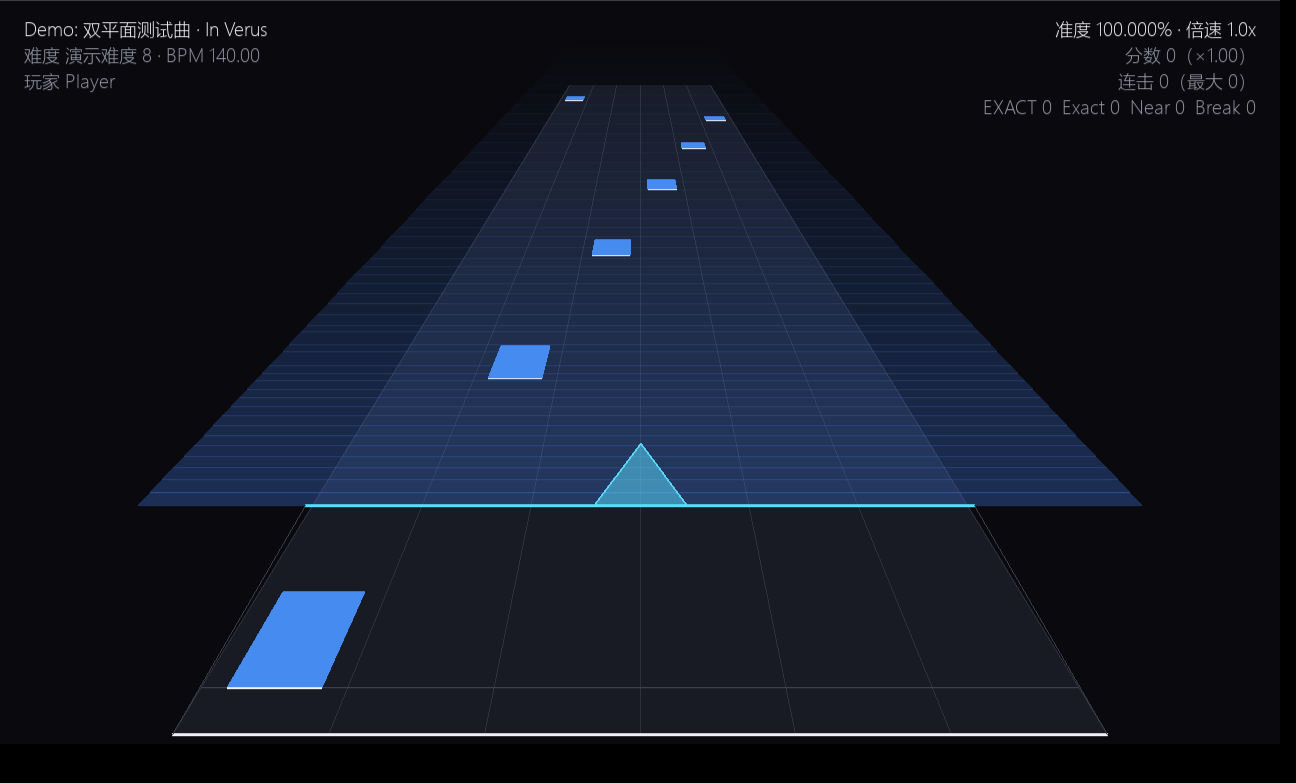
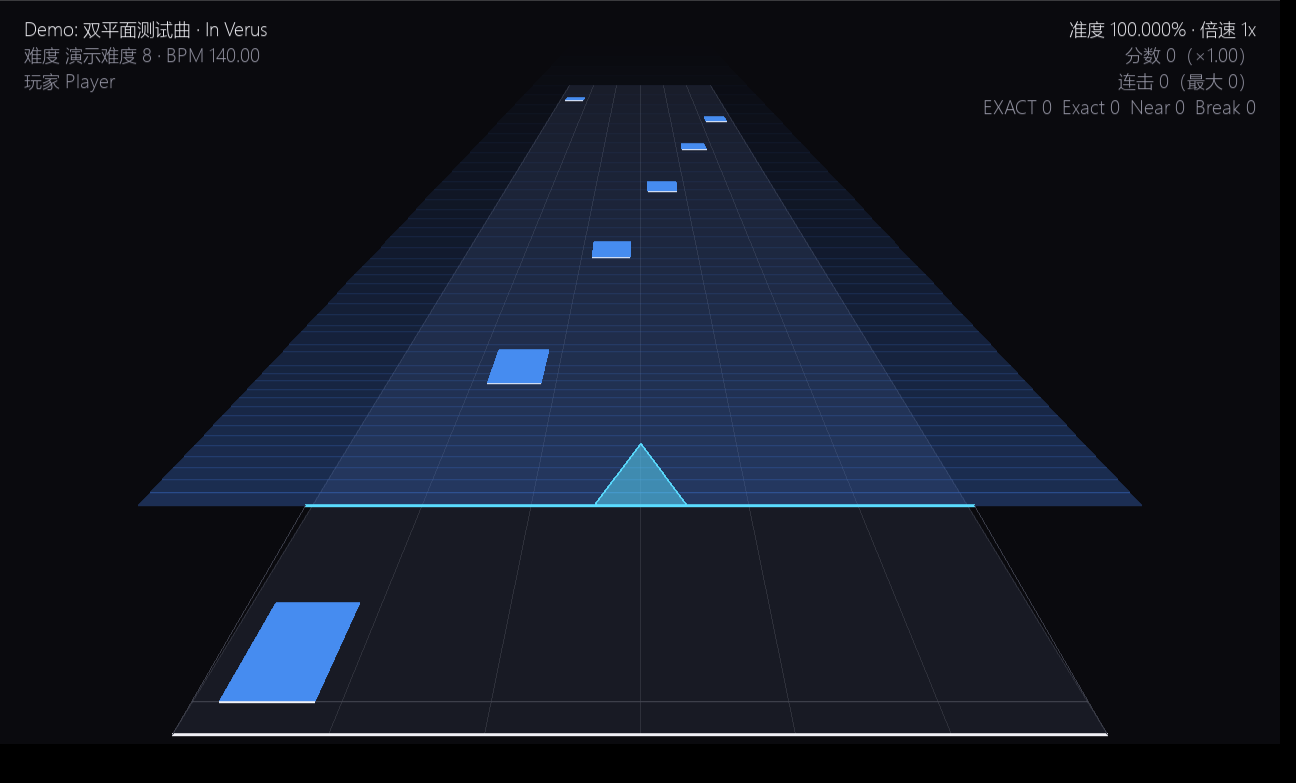
feat(player): 倍速上限改为 1.5x；手输数值不再按档位吸附（只夹范围），步长只管 +/- 按钮；倍速显示不再固定一位小数

diff --git a/tests/test_game_app.py b/tests/test_game_app.py
@@ -308,7 +308,7 @@ class PlayerAppSmokeTests(unittest.TestCase):
         app._enter_loading()
         chart = app.chart
         offset = chart.timing.beat_to_song_ms(0.0)
-        for rate in (0.5, 1.0, 2.0, 3.0):
+        for rate in (0.5, 1.0, 1.5):
             app.settings.rate = rate
             clock = [1000.0]
             original_perf = app_module.time.perf_counter
@@ -381,9 +381,9 @@ class PlayerAppSmokeTests(unittest.TestCase):
             app.judge.score,
             round(app.judge.accuracy_score * expected_multiplier) + app.judge.exact_bonus,
         )
-        app.settings.rate = 2.0
-        app.judge.rate = 2.0
-        self.assertAlmostEqual(app.judge.score_multiplier, -(2.0 ** 1.5), places=6)
+        app.settings.rate = 1.5
+        app.judge.rate = 1.5
+        self.assertAlmostEqual(app.judge.score_multiplier, -(1.5 ** 1.5), places=6)
         # 结算页：倍速行注明 -1x，判定数换成准度
         app._finish()
         self.assertIn("Autoplay", app._result_rate_line())
@@ -406,7 +406,7 @@ class PlayerAppSmokeTests(unittest.TestCase):
         from rhythm_editor.game.app import WHITE
 
         app = self.app
-        app.settings.rate = 2.0
+        app.settings.rate = 1.5
         app._enter_loading()
         app._start_play()
         app.judge._judge_result("X", "EXACT", 0.0)
@@ -414,7 +414,7 @@ class PlayerAppSmokeTests(unittest.TestCase):
         self.assertEqual(app.judge.exact_bonus, 1)
         self.assertEqual(
             app.judge.scaled_score,
-            round(app.judge.accuracy_score * (2.0 ** 1.5)),
+            round(app.judge.accuracy_score * (1.5 ** 1.5)),
             "结算展示的分数只把准度部分乘倍率",
         )
         self.assertEqual(app.judge.score, app.judge.scaled_score + 1, "附加分不吃倍率")
@@ -428,6 +428,39 @@ class PlayerAppSmokeTests(unittest.TestCase):
         app._finish()
         app._draw()
         app.settings.rate = 1.0
+
+    def test_custom_input_ignores_the_step_grid(self) -> None:
+        """手输的数值不受档位影响（只做范围夹取）；步长只决定 − / + 每次动多少。"""
+        app = self.app
+        pygame = self.pygame
+        original = pygame.event.get
+
+        def type_number(text: str) -> None:
+            queue = [
+                [pygame.event.Event(pygame.TEXTINPUT, text=text)],
+                [pygame.event.Event(pygame.KEYDOWN, key=pygame.K_RETURN)],
+            ]
+            pygame.event.get = lambda *a, **k: queue.pop(0) if queue else []
+            app._prompt_number(app._row_key())
+
+        try:
+            # 倍速：1.37 不在 0.1 的档位上，也要原样保留
+            app.settings_row = app._row_index("rate")
+            app.settings.rate = 1.0
+            type_number("1.37")
+            self.assertAlmostEqual(app.settings.rate, 1.37, places=6)
+            # 超出范围仍然夹到上限 1.5
+            type_number("9.9")
+            self.assertAlmostEqual(app.settings.rate, 1.5, places=6)
+            # 其它数字项同理：单键厚度 0.37 不该被吸到 0.35 / 0.40
+            app.settings_row = app._row_index("note_thickness")
+            type_number("0.37")
+            self.assertAlmostEqual(app.settings.note_thickness, 0.37, places=6)
+            # 而 − / + 仍然按步长走
+            app._adjust_setting(1)
+            self.assertAlmostEqual(app.settings.note_thickness, 0.42, places=6)
+        finally:
+            pygame.event.get = original
 
     def test_prompt_accepts_text_input_and_key_capture(self) -> None:
         """文字输入走 TEXTINPUT（中文可输入）；键位改为“按下想设的键”。"""
@@ -608,23 +641,23 @@ class PlayerAppSmokeTests(unittest.TestCase):
         app._event_settings(pygame.event.Event(pygame.MOUSEBUTTONDOWN, button=1, pos=row.center))
         self.assertTrue(app.settings.side_lane_highlight, "点已选中的行 = 切换开关")
 
-    def test_rate_can_go_up_to_three(self) -> None:
-        """倍速上限扩大到 3x（0.1 一档），分数 = 基础分 × 倍速^1.5。"""
+    def test_rate_can_go_up_to_1_5(self) -> None:
+        """倍速上限 1.5x（+/ - 步长 0.1），分数 = 准度部分 × 倍速^1.5 + 附加分。"""
         app = self.app
         app.settings_row = app._row_index("rate")
         for _ in range(60):
             app._adjust_setting(1)
-        self.assertAlmostEqual(app.settings.rate, 3.0)
+        self.assertAlmostEqual(app.settings.rate, 1.5)
         app._enter_loading()
         app._start_play()
-        self.assertAlmostEqual(app.judge.rate, 3.0)
+        self.assertAlmostEqual(app.judge.rate, 1.5)
         app.judge._judge_result("X", "EXACT", 0.0)
         self.assertEqual(
             app.judge.score,
-            round(app.judge.accuracy_score * (3.0 ** 1.5)) + app.judge.exact_bonus,
+            round(app.judge.accuracy_score * (1.5 ** 1.5)) + app.judge.exact_bonus,
         )
         app._adjust_rate(-1)
-        self.assertAlmostEqual(app.settings.rate, 2.9)
+        self.assertAlmostEqual(app.settings.rate, 1.4)
         for _ in range(60):
             app._adjust_setting(-1)
         self.assertAlmostEqual(app.settings.rate, 0.1)
@@ -901,7 +934,7 @@ class PlayerAppSmokeTests(unittest.TestCase):
     def test_result_page_shows_combo_ratio_and_multiplier(self) -> None:
         """结算：最大连击写成 x / 总判定数，倍速放在它后面。"""
         app = self.app
-        app.settings.rate = 2.0
+        app.settings.rate = 1.5
         app._enter_loading()
         app._start_play()
         app.judge._judge_result("X", "EXACT", 0.0)
@@ -911,7 +944,7 @@ class PlayerAppSmokeTests(unittest.TestCase):
         self.assertIn(str(app.judge.total_notes), combo_line)
         rate_line = app._result_rate_line()
         self.assertIn("倍速", rate_line)
-        self.assertIn("2.0x", rate_line)
+        self.assertIn("1.5x", rate_line)
         self.assertNotIn("×", rate_line)
         app._draw()
 

diff --git a/src/rhythm_editor/game/app.py b/src/rhythm_editor/game/app.py
@@ -130,6 +130,12 @@ def key_code(name: str) -> int:
     return pygame.K_UNKNOWN
 
 
+def _fmt_num(value: float) -> str:
+    """数字显示：去掉多余的 0（1.0 → ``1``、1.37 → ``1.37``、0.5 → ``0.5``）。"""
+    text = f"{float(value):.3f}".rstrip("0").rstrip(".")
+    return text or "0"
+
+
 class PlayerApp:
     """游玩器主程序（状态机 + 渲染 + 判定）。"""
 
@@ -664,7 +670,7 @@ class PlayerApp:
         ("music_volume", "音乐音量"),
         ("hit_volume", "打击音效音量"),
         ("renderer", "渲染后端（软件 / OpenGL）"),
-        ("rate", "倍速（0.1~3.0x）"),
+        ("rate", "倍速（0.1~1.5x）"),
         ("autoplay", "自动播放（Autoplay）"),
     )
     # 数字类选项（有 − / ● / + 三个按钮；点 ● 可以自定义输入）：字段名 -> (最小, 最大, 步进)
@@ -727,7 +733,7 @@ class PlayerApp:
             return "OpenGL（切换即生效）" if s.renderer == "opengl" else "软件"
         if key == "autoplay":
             return "开（判定全 EXACT · 分数倍率 ×-倍速^1.5）" if s.autoplay else "关"
-        return f"{s.rate:.1f}x（得分 ×{s.rate ** 1.5:.2f}）"
+        return f"{_fmt_num(s.rate)}x（得分 ×{s.rate ** 1.5:.2f}）"
 
     def _event_settings(self, event) -> None:
         if event.type == pygame.MOUSEWHEEL:
@@ -817,11 +823,15 @@ class PlayerApp:
         s.normalize()
 
     def _prompt_number(self, key: str) -> None:
-        """数字类选项的自定义输入（点 ● 或在选中行按回车）。"""
+        """数字类选项的自定义输入（点 ● 或在选中行按回车）。
+
+        **手输的数值不受档位影响**：只做范围夹取，不按步长对齐
+        （步长只决定 − / + 按钮每次动多少）。
+        """
         low, high, step = self.NUMERIC_ROWS[key]
         current = self._setting_number(key)
         entered = self._prompt(
-            f"{self._row_label()}：{low:g} ~ {high:g}（{step:g} 一档）",
+            f"{self._row_label()}：{low:g} ~ {high:g}（− / + 步长 {step:g}）",
             f"{current:g}",
             select_all=True,
         )
@@ -835,8 +845,7 @@ class PlayerApp:
         except ValueError:
             self.message = f"“{entered}”不是数字"
             return
-        value = min(high, max(low, round(value / step) * step))
-        self._set_setting_number(key, round(value, 3))
+        self._set_setting_number(key, round(min(high, max(low, value)), 3))
         self.message = ""
 
     def _adjust_setting(self, step: int) -> None:
@@ -1916,7 +1925,7 @@ class PlayerApp:
         assert self.judge is not None
         counts = self.judge.counts
         return (
-            f"准度 {self.judge.accuracy * 100:.3f}% · 倍速 {self.settings.rate:.1f}x",
+            f"准度 {self.judge.accuracy * 100:.3f}% · 倍速 {_fmt_num(self.settings.rate)}x",
             f"分数 {self.judge.score}（×{self.judge.score_multiplier:.2f}）",
             f"连击 {self.judge.combo}（最大 {self.judge.max_combo}）",
             "  ".join(f"{grade} {counts[grade]}" for grade in GRADES),
@@ -1999,10 +2008,10 @@ class PlayerApp:
         if self.settings.autoplay:
             assert self.judge is not None
             return (
-                f"倍速：{self.settings.rate:.1f}x"
+                f"倍速：{_fmt_num(self.settings.rate)}x"
                 f"（Autoplay · 分数倍率 ×{self.judge.score_multiplier:.2f}）"
             )
-        return f"倍速：{self.settings.rate:.1f}x"
+        return f"倍速：{_fmt_num(self.settings.rate)}x"
 
     def _result_accuracy_line(self) -> str:
         """准度（取代原来的“判定数 a / 总数”）。"""

diff --git a/src/rhythm_editor/game/settings.py b/src/rhythm_editor/game/settings.py
@@ -18,8 +18,8 @@ SPEED_MIN = 1.0
 SPEED_MAX = 10.0
 SPEED_STEP = 0.1
 BASE_SCROLL_MS = 1500.0        # 流速 1.0 对应的可视毫秒；n 流速 = 1500 / n 毫秒
-RATE_MIN = 0.1                 # 游玩倍速：0.1 ~ 3.0（0.1 一档）
-RATE_MAX = 3.0
+RATE_MIN = 0.1                 # 游玩倍速：0.1 ~ 1.5（+/- 号步长 0.1；手输不受步长影响）
+RATE_MAX = 1.5
 RATE_STEP = 0.1
 
 
@@ -40,7 +40,7 @@ class PlayerSettings:
     mouse_sensitivity: float = 1.0        # 0.1 ~ 10
     unbounded_mouse: bool = False         # 无界鼠标：实际位置即判定位置
     renderer: str = "software"            # software / opengl
-    rate: float = 1.0                     # 游玩倍速 0.1 ~ 3.0x（每 0.1 一档）
+    rate: float = 1.0                     # 游玩倍速 0.1 ~ 1.5x（+/- 号 0.1 一档）
     autoplay: bool = False                # 自动播放（判定全 EXACT，分数倍率 -1x）
     music_volume: float = 1.0
     hit_volume: float = 0.6
@@ -60,7 +60,7 @@ class PlayerSettings:
         self.audio_latency_ms = min(5000.0, max(-5000.0, float(self.audio_latency_ms)))
         self.speed = round(min(SPEED_MAX, max(SPEED_MIN, float(self.speed))), 1)
         self.mouse_sensitivity = min(10.0, max(0.1, float(self.mouse_sensitivity)))
-        self.rate = round(min(RATE_MAX, max(RATE_MIN, float(self.rate))), 1)
+        self.rate = round(min(RATE_MAX, max(RATE_MIN, float(self.rate))), 3)
         self.music_volume = min(1.0, max(0.0, float(self.music_volume)))
         self.hit_volume = min(1.0, max(0.0, float(self.hit_volume)))
         self.player_name = (self.player_name or "Player")[:24]

diff --git a/tests/test_game_judge.py b/tests/test_game_judge.py
@@ -213,7 +213,7 @@ class ScoreTests(unittest.TestCase):
         self.assertEqual(judge.base_score, accuracy_part + bonus)
         self.assertEqual(judge.rate, 1.0)
         self.assertEqual(judge.score, accuracy_part + bonus)
-        for rate in (0.5, 0.1, 3.0):
+        for rate in (0.5, 0.1, 1.5):
             judge.rate = rate
             self.assertEqual(
                 judge.score,
@@ -222,8 +222,8 @@ class ScoreTests(unittest.TestCase):
             )
             self.assertEqual(judge.scaled_score, round(accuracy_part * (rate ** 1.5)))
         # 倍速被夹在 0.1 ~ 3.0（上限 3 倍）
-        self.assertEqual(Judge(chart, rate=3.0).rate, 3.0)
-        self.assertEqual(Judge(chart, rate=9.0).rate, 3.0)
+        self.assertEqual(Judge(chart, rate=1.5).rate, 1.5)
+        self.assertEqual(Judge(chart, rate=9.0).rate, 1.5)
         self.assertEqual(Judge(chart, rate=0.01).rate, 0.1)
 
     def test_earliest_judge_time_wins_when_several_are_hittable(self) -> None:

diff --git a/docs/VERIFICATION.md b/docs/VERIFICATION.md
@@ -113,7 +113,7 @@ python tools/check_audio.py
 
 | 项目 | 命令 | 结果 |
 | --- | --- | --- |
-| 单元测试（含 Tk 画布冒烟测试、应用级测试与游玩器测试） | `python -m unittest discover -s tests -t .` | Ran 335 tests — **OK**（含滑键渐变 / 结算显示倍速 / 流速与倍速解耦 / 滑键判定文字 / 剔除阈值与跨度一致 / 鼠标平面蓝底渐变） |
+| 单元测试（含 Tk 画布冒烟测试、应用级测试与游玩器测试） | `python -m unittest discover -s tests -t .` | Ran 336 tests — **OK**（含滑键渐变 / 结算显示倍速 / 流速与倍速解耦 / 滑键判定文字 / 剔除阈值与跨度一致 / 鼠标平面蓝底渐变） |
 | 需求验收清单 | `python tools/acceptance.py` | 18 项全部 `[OK ]`，结论：全部通过（含游玩器 4 项） |
 | 音频后端 | `python tools/check_audio.py` | 9 项全部 `[OK ]`（pygame.mixer 真实播放，延迟补偿正确） |
 | 示例谱面生成 | `python run_editor.py --make-demo` | 生成 `charts/demo/demo.json`（6K 32 / 区域 3 / 滑键 6 / 点击按键 4 / 4 个速度组） |
@@ -212,7 +212,7 @@ python tools/check_audio.py
 | `tests/test_game_judge.py`（27 条） | 游玩器判定：EXACT/Exact/Near/Break 窗口、空敲无惩罚、一次按键只判一个、**输入类型必须匹配（6K 键只判 6K、鼠标点击只判鼠标点击按键）**、滑键吸附最好等级、空域半拍区间、长按“抬起事件 + 末 50ms 宽限（跨区间）”、多轨长按“所有行同时抬起才算抬起”、准度与分数公式、分数 × 倍速^1.5、连击与最大连击 |
 | `tests/test_game_scene.py`（9 条） | 游玩器 3D 布局：1 单位 = 鼠标合法区宽 = 6K 中间四轨；鼠标平面高 0.4；两条判定线位置；近大远小；起点在屏幕上方；**游玩区铺满窗口（竖直 ≥85%、水平居中、换尺寸重算）** |
 | `tests/test_game_settings.py`（9 条） | 游玩器设置：默认键位、范围夹取、**流速 ↔ 可视毫秒（1500/n）与老 `scroll_ms` 迁移**、键位补齐、全局读写与损坏回退、最近打开列表去重与上限、渲染后端设置（含非法值回退） |
-| `tests/test_game_app.py`（42 条） | 游玩器 GUI 冒烟（headless）：主界面 → 加载 → 游玩 → 结算、鼠标映射、设置全局保存、轨道高亮与判定飘字、音量与暂停、谱面列表元数据与最近打开、渲染后端切换与回退、倍速（含上限 3x 与分数 ×3^1.5）、charts/ “每个含 json 的文件夹算一张谱面”、没有谱面时也能进设置、打开其他路径的 JSON、判定时刻过去的物件不再绘制、首拍 1.5 秒引导且音乐同步、文本输入走 TEXTINPUT / 键位按键捕获、鼠标可操作主界面 / 设置 / 结算、轨道键优先于界面快捷键（空格 = 第 6 轨）、GL 呈现异常时自动回退软件渲染、`--software` 命令行强制后端、流速行 − ● +、四种物件厚度互相独立、结算页 1/3 + 2/3、窗口尺寸变化不重建显示表面 + F10 / F11、远于可视范围的物件不绘制、每帧 poll 音频后端、短暂无声不立刻结束、远白线更细（透视缩放）、判定字符出现在被判定的物件处（含瞬时物件）、滑键渐变 + 鼠标点击菱形渐变（中间最厚最实、两端尖而淡）+ 线全红 + 鼠标指针躺在鼠标平面内且矮胖、结算最大连击 x / 总数 + 倍速、F11 循环 窗口 / 无边框全屏 / 独占全屏、鼠标指针实心 / 边线规则、滑键厚度与透明度渐变、流速与倍速解耦（1x/0.5x/0.1x/3x 跨度一致）、鼠标点击左右键可判 / 滚轮不判、鼠标平面改成蓝底渐变（无左右边线，靠近判定线略蓝、轨道尽头完全透明）、滑键判定有飘字与打击音（回归）、剔除阈值与可视跨度一致（0.5x 不堆积 / 3x 从轨道尽头出现）、鼠标平面渐变实测（判定线 (36,56,97) → 尽头 (24,26,37)，相邻行跳变 ≤2）、侧轨 / 按下高亮在鼠标平面下方（绘制顺序断言）、开局引导恒为 1.5 秒真实时间（0.5x/1x/2x/3x）且开局无物件过线、**自动播放（玩家名 Autoplay / 输入不判定只高亮 / 过线全 EXACT / 分数倍率 = -倍速^1.5 / 结算准度位于分数下方且保留三位小数 / 附加分不吃倍率且结算写成「分数 + 附加分」）** |
+| `tests/test_game_app.py`（43 条） | 游玩器 GUI 冒烟（headless）：主界面 → 加载 → 游玩 → 结算、鼠标映射、设置全局保存、轨道高亮与判定飘字、音量与暂停、谱面列表元数据与最近打开、渲染后端切换与回退、倍速（含上限 3x 与分数 ×3^1.5）、charts/ “每个含 json 的文件夹算一张谱面”、没有谱面时也能进设置、打开其他路径的 JSON、判定时刻过去的物件不再绘制、首拍 1.5 秒引导且音乐同步、文本输入走 TEXTINPUT / 键位按键捕获、鼠标可操作主界面 / 设置 / 结算、轨道键优先于界面快捷键（空格 = 第 6 轨）、GL 呈现异常时自动回退软件渲染、`--software` 命令行强制后端、流速行 − ● +、四种物件厚度互相独立、结算页 1/3 + 2/3、窗口尺寸变化不重建显示表面 + F10 / F11、远于可视范围的物件不绘制、每帧 poll 音频后端、短暂无声不立刻结束、远白线更细（透视缩放）、判定字符出现在被判定的物件处（含瞬时物件）、滑键渐变 + 鼠标点击菱形渐变（中间最厚最实、两端尖而淡）+ 线全红 + 鼠标指针躺在鼠标平面内且矮胖、结算最大连击 x / 总数 + 倍速、F11 循环 窗口 / 无边框全屏 / 独占全屏、鼠标指针实心 / 边线规则、滑键厚度与透明度渐变、流速与倍速解耦（1x/0.5x/0.1x/3x 跨度一致）、鼠标点击左右键可判 / 滚轮不判、鼠标平面改成蓝底渐变（无左右边线，靠近判定线略蓝、轨道尽头完全透明）、滑键判定有飘字与打击音（回归）、剔除阈值与可视跨度一致（0.5x 不堆积 / 3x 从轨道尽头出现）、鼠标平面渐变实测（判定线 (36,56,97) → 尽头 (24,26,37)，相邻行跳变 ≤2）、侧轨 / 按下高亮在鼠标平面下方（绘制顺序断言）、开局引导恒为 1.5 秒真实时间（0.5x/1x/2x/3x）且开局无物件过线、**自动播放（玩家名 Autoplay / 输入不判定只高亮 / 过线全 EXACT / 分数倍率 = -倍速^1.5 / 结算准度位于分数下方且保留三位小数 / 附加分不吃倍率且结算写成「分数 + 附加分」 / 倍速上限 1.5x 且手输不受档位影响）** |
 
 | 低倍速实测（真实音频，跑真机 20 秒） | 0.5x / 0.1x 下逐帧 `_update` + `audio.poll()` | 0.5x：真实 20s → 歌曲 9.76s、`playing=True` 全程；0.1x：真实 12s → 歌曲 1.15s、`playing=True`；修复前只播完第一段窗口就停 |
 | 慢放接力实测（真实音频） | 0.5x 跑 20 秒并记录 `Channel.get_sound()` 顺序 | 交出 `(0,4000)(4000,8000)(8000,12000)(12000,16000)`，实播 `(0,4000)@0s → (4000,8000)@8.04s → (8000,12000)@16.03s`，**没有被顶掉的窗口** |

diff --git a/CHANGELOG.md b/CHANGELOG.md
@@ -1,5 +1,16 @@
 # 更新日志
 
+## 0.3.21 — 倍速上限 1.5x；手输数值不受档位影响
+
+* **倍速范围改为 0.1 ~ 1.5x**（原 3.0x）。存档里超过 1.5 的旧值会自动夹到 1.5。
+* **手输的数值不再被档位吸附**：点 ●（或在数字行回车）输入的数值只做**范围夹取**，
+  保留原值到三位小数 —— 例如倍速直接输 `1.37` 就是 1.37x、单键厚度输 `0.37` 就是 0.37；
+  **`−` / `+` 按钮仍然按各自的步长走**（倍速 0.1、厚度 0.05…），
+  输入框提示也改成「− / + 步长 x.x」以免误解。
+* 倍速显示不再固定一位小数：1.0 → `1x`、1.37 → `1.37x`（HUD / 设置行 / 结算行一致）。
+* 回归测试：输入 1.37 保留 1.37、输入 9.9 夹到上限 1.5、厚度 0.37 不被吸到 0.35/0.40，
+  且 − / + 仍然按步长变化。
+
 ## 0.3.20 — EXACT 附加分不吃倍率 / 结算分数写成「分数 + 附加分」
 
 * **每个 EXACT 额外 +1 的附加分不再受倍率影响**：分数公式改成
